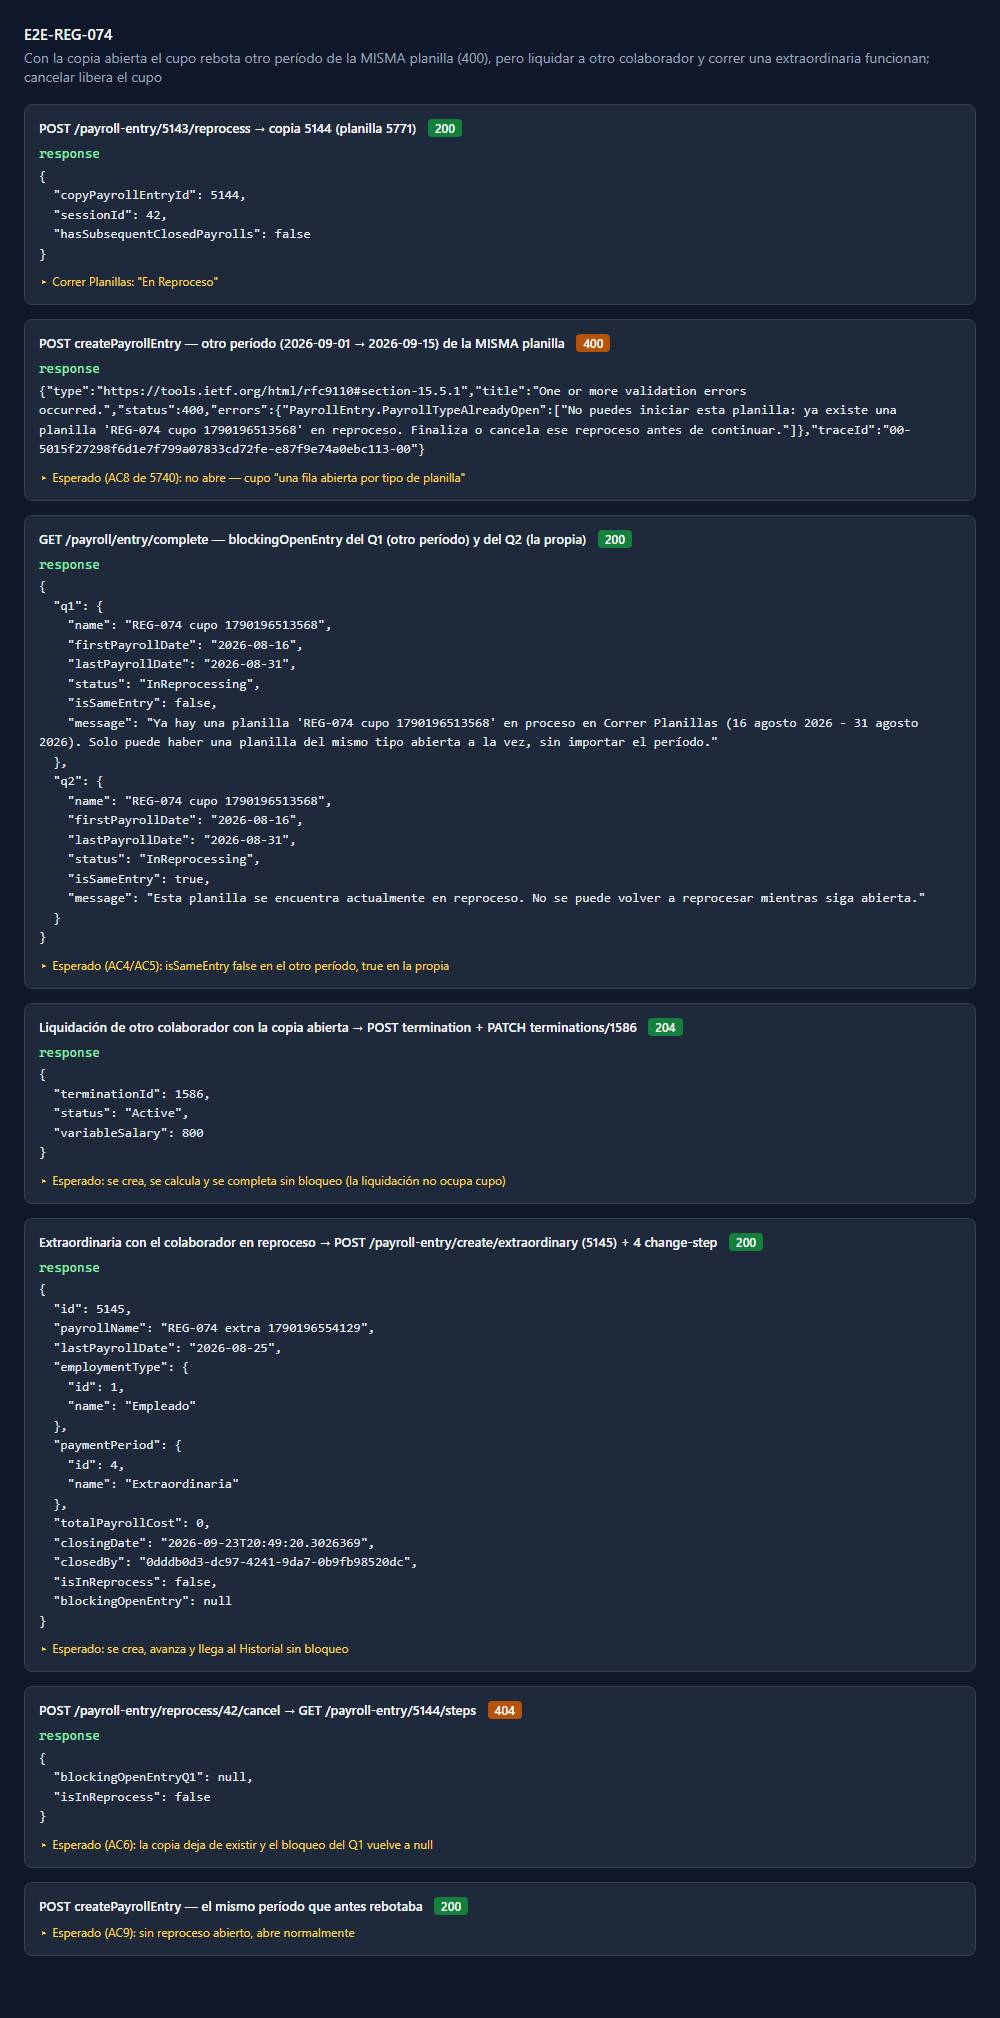
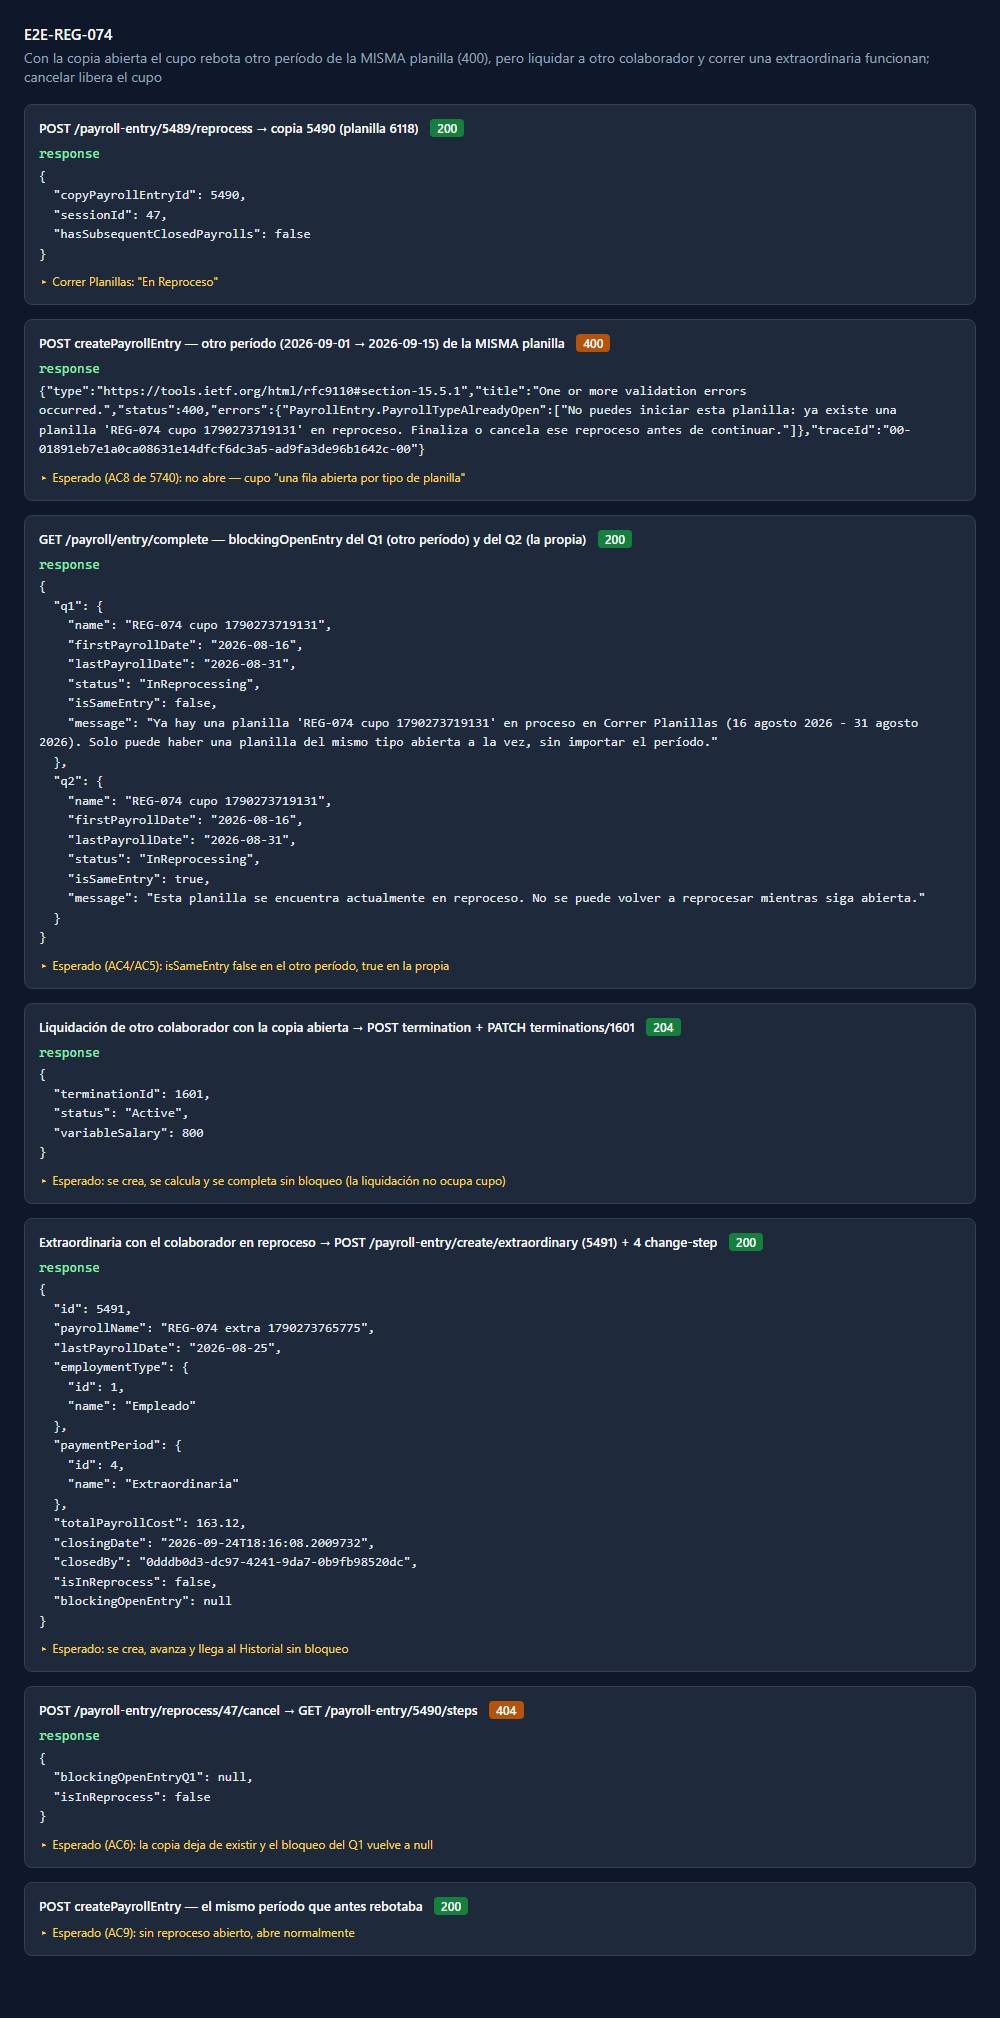
report(v17.0.0): REG-074 con el bruto real de la extraordinaria (contrato period-salary corregido) y nota del hallazgo

diff --git a/index.html b/index.html
@@ -114,10 +114,10 @@
 
 <div class="bandeja">
   <div class="summary">
-    <div class="card pass"><div class="card-value">180</div><div class="card-label">Pasaron</div></div>
+    <div class="card pass"><div class="card-value">180</div><div class="card-label">Pasaron <span style="font-size:10px;opacity:.75">(flujos E2E en UAT co.2)</span></div></div>
     <div class="card fail"><div class="card-value">12</div><div class="card-label">Fallaron</div></div>
     <div class="card total"><div class="card-value">192</div><div class="card-label">Casos en UAT <span style="font-size:10px;opacity:.75">(8 flujos E2E del reproceso + 184 de la matriz mensual REG-073)</span></div></div>
-    <div class="card time"><div class="card-value">~8 m</div><div class="card-label">Duraci&oacute;n <span style="font-size:10px;opacity:.75">(UAT)</span></div></div>
+    <div class="card time"><div class="card-value">~8 m</div><div class="card-label">Duraci&oacute;n <span style="font-size:10px;opacity:.75">(corrida completa con evidencia)</span></div></div>
   </div>
 
   <div class="content" style="padding-top:4px">
@@ -134,7 +134,7 @@
       <br><br>
       <strong>Desv&iacute;os medidos respecto del an&aacute;lisis:</strong> las corridas <code>FinalPay</code> ya no existen (REBU-5791) &rarr; REG-074 liquida desvinculando y completando;
       la provisi&oacute;n de aguinaldo sigue el art. 198 y no la tabla custom de la empresa; el estado <code>Paid</code>/<code>Deleted</code> no lo expone ninguna superficie &rarr; INT-078 lo prueba con la conducta;
-      con el toggle OFF desaparece tambi&eacute;n la pesta&ntilde;a Auditor&iacute;a (pregunta abierta a producto).
+      con el toggle OFF desaparece tambi&eacute;n la pesta&ntilde;a Auditor&iacute;a (pregunta abierta a producto); el 400 &ldquo;valor negativo&rdquo; de <code>period-salary</code> era un cambio de contrato (<code>payrollDetailId</code>) que la suite no segu&iacute;a &mdash; corregido, TC-PLA-500&hellip;503 de vuelta en verde.
     </div>
   </div>
 
@@ -220,8 +220,8 @@
 <tr><th>Setup</th><td>1. Cerrar la planilla mensual regular con <code>payroll-scenario.ts</code> + <code>changeStep</code>.<br>2. Preparar la desvinculación del segundo colaborador con <code>liquidacion-scenario.ts</code>.</td></tr>
 <tr><th>Pasos</th><td>1. Admin RRHH inicia el reproceso de la planilla mensual regular &rarr; Esperado: la copia queda <code>InReprocessing</code> y ocupa el cupo del tipo regular.<br>2. Admin RRHH intenta iniciar otra planilla <strong>regular</strong> &rarr; Esperado: no inicia, con el toast de conflicto (comportamiento nuevo, esperado).<br>3. Admin RRHH crea y corre una planilla de <strong>liquidación (FinalPay)</strong> para el colaborador desvinculado &rarr; Esperado: <strong>se crea y avanza normalmente</strong> — <code>FinalPay</code> está exenta del cupo por tipo.<br>4. Admin RRHH crea y corre una planilla <strong>extraordinaria</strong> &rarr; Esperado: se crea y avanza normalmente, sin bloqueo por el reproceso abierto.<br>5. Admin RRHH cancela el reproceso &rarr; Esperado: el cupo del tipo regular se libera y la planilla regular vuelve a ser iniciable.</td></tr>
 <tr><th>Resultado esperado</th><td>el cupo "una abierta por tipo" aísla por tipo de verdad: un reproceso de la planilla regular no congela la operación de liquidaciones ni de extraordinarias.</td></tr>
-<tr><th>Resultado obtenido</th><td>Con la copia abierta, iniciar otro período de la <strong>misma</strong> planilla rebotó <strong>400 <code>PayrollEntry.PayrollTypeAlreadyOpen</code></strong> con el texto del AC8; <code>blockingOpenEntry</code> marcó el otro período (<code>isSameEntry: false</code>) y la propia (<code>true</code>). Se desvinculó y completó la desvinculación de otro colaborador, y se creó y finalizó una extraordinaria con el colaborador en reproceso, sin bloqueo. Cancelar liberó el cupo: <code>blockingOpenEntry: null</code> y el período que rebotaba abrió. <em>Nota:</em> las corridas <code>FinalPay</code> ya no existen (REBU-5791) — liquidar es desvincular + completar. &#9989;</td></tr>
-<tr><th>Evidencia</th><td><div style="display:flex;gap:12px;flex-wrap:wrap;padding:4px 0"><div style="flex:1;min-width:220px"><div style="font-size:10px;font-weight:700;color:#284b44;letter-spacing:.5px;text-transform:uppercase;margin-bottom:6px">01 &mdash; Correr Planillas: la copia 5144 "En Reproceso" ocupa el cupo de la planilla — otro período de esta planilla no puede iniciarse; liquidaciones y extraordinarias no se ven afectadas</div><img src="assets/v17.0.0/uat/E2E-REG-074/01.jpg" style="max-width:100%;border-radius:6px;border:1px solid #d4e8d0;box-shadow:0 1px 4px rgba(0,0,0,.08)" loading="lazy" /></div><div style="flex:1;min-width:220px"><div style="font-size:10px;font-weight:700;color:#284b44;letter-spacing:.5px;text-transform:uppercase;margin-bottom:6px">02 &mdash; tras cancelar el reproceso: la planilla vuelve a "Sin Iniciar" y el cupo queda libre (blockingOpenEntry = null)</div><img src="assets/v17.0.0/uat/E2E-REG-074/02.jpg" style="max-width:100%;border-radius:6px;border:1px solid #d4e8d0;box-shadow:0 1px 4px rgba(0,0,0,.08)" loading="lazy" /></div><div style="flex:1;min-width:220px"><div style="font-size:10px;font-weight:700;color:#284b44;letter-spacing:.5px;text-transform:uppercase;margin-bottom:6px">03 &mdash; Con la copia abierta el cupo rebota otro período de la MISMA planilla (400), pero liquidar a otro colaborador y correr una extraordinaria funcionan; cancelar libera el cupo</div><img src="assets/v17.0.0/uat/E2E-REG-074/03.jpg" style="max-width:100%;border-radius:6px;border:1px solid #d4e8d0;box-shadow:0 1px 4px rgba(0,0,0,.08)" loading="lazy" /></div></div></td></tr>
+<tr><th>Resultado obtenido</th><td>Con la copia abierta, iniciar otro período de la <strong>misma</strong> planilla rebotó <strong>400 <code>PayrollEntry.PayrollTypeAlreadyOpen</code></strong> con el texto del AC8; <code>blockingOpenEntry</code> marcó el otro período (<code>isSameEntry: false</code>) y la propia (<code>true</code>). Se desvinculó y completó la desvinculación de otro colaborador, y se creó y finalizó una extraordinaria con el colaborador en reproceso, sin bloqueo. Cancelar liberó el cupo: <code>blockingOpenEntry: null</code> y el período que rebotaba abrió. <em>Notas:</em> las corridas <code>FinalPay</code> ya no existen (REBU-5791) — liquidar es desvincular + completar; el bruto manual de la extraordinaria ($150) se carga con el contrato vigente de <code>period-salary</code> (<code>payrollDetailId</code>), corregido el 24-09. &#9989;</td></tr>
+<tr><th>Evidencia</th><td><div style="display:flex;gap:12px;flex-wrap:wrap;padding:4px 0"><div style="flex:1;min-width:220px"><div style="font-size:10px;font-weight:700;color:#284b44;letter-spacing:.5px;text-transform:uppercase;margin-bottom:6px">01 &mdash; Correr Planillas: la copia 5490 "En Reproceso" ocupa el cupo de la planilla — otro período de esta planilla no puede iniciarse; liquidaciones y extraordinarias no se ven afectadas</div><img src="assets/v17.0.0/uat/E2E-REG-074/01.jpg" style="max-width:100%;border-radius:6px;border:1px solid #d4e8d0;box-shadow:0 1px 4px rgba(0,0,0,.08)" loading="lazy" /></div><div style="flex:1;min-width:220px"><div style="font-size:10px;font-weight:700;color:#284b44;letter-spacing:.5px;text-transform:uppercase;margin-bottom:6px">02 &mdash; tras cancelar el reproceso: la planilla vuelve a "Sin Iniciar" y el cupo queda libre (blockingOpenEntry = null)</div><img src="assets/v17.0.0/uat/E2E-REG-074/02.jpg" style="max-width:100%;border-radius:6px;border:1px solid #d4e8d0;box-shadow:0 1px 4px rgba(0,0,0,.08)" loading="lazy" /></div><div style="flex:1;min-width:220px"><div style="font-size:10px;font-weight:700;color:#284b44;letter-spacing:.5px;text-transform:uppercase;margin-bottom:6px">03 &mdash; Con la copia abierta el cupo rebota otro período de la MISMA planilla (400), pero liquidar a otro colaborador y correr una extraordinaria funcionan; cancelar libera el cupo</div><img src="assets/v17.0.0/uat/E2E-REG-074/03.jpg" style="max-width:100%;border-radius:6px;border:1px solid #d4e8d0;box-shadow:0 1px 4px rgba(0,0,0,.08)" loading="lazy" /></div></div></td></tr>
 <tr><th>Status</th><td><span class="badge-pass">PASS</span></td></tr>
 </table></td></tr>
 
@@ -233,7 +233,7 @@
 <tr><th>Pasos</th><td>1. Contabilidad genera el Reporte Mensual del período antes del reproceso &rarr; Esperado: totales de línea base, una fila por colaborador.<br>2. Admin RRHH inicia el reproceso de la planilla &rarr; Esperado: existen simultáneamente la original Completada y la copia <code>InReprocessing</code>.<br>3. Contabilidad genera el Reporte Mensual <strong>durante</strong> la ventana &rarr; Esperado: los totales son <strong>idénticos a la línea base</strong> — la copia no se agrega (no está cerrada) y la original no se pierde.<br>4. Admin RRHH confirma el reproceso con un cambio de monto &rarr; Esperado: la copia se fusiona y desaparece.<br>5. Contabilidad genera el Reporte Mensual después de confirmar &rarr; Esperado: los totales reflejan el monto corregido, con <strong>una sola</strong> fila por colaborador.</td></tr>
 <tr><th>Resultado esperado</th><td>el Reporte Mensual ve exactamente una planilla por período en los tres momentos, con los montos vigentes en cada uno.</td></tr>
 <tr><th>Resultado obtenido</th><td>Reporte Mensual de octubre (Empleados) generado y leído por API en los tres momentos. Línea base: el colaborador aparece una vez en &ldquo;Resumen&rdquo; y una en &ldquo;Pago a Colaboradores&rdquo; (neto $418.52). Con la copia abierta el reporte fue <strong>idéntico</strong> en todas las hojas salvo &ldquo;Inicio&rdquo;. Tras confirmar con una comisión de $50: sigue <strong>una</strong> fila por hoja, neto <strong>$455.62</strong> (el viejo ya no aparece) y la comisión suma una fila legítima en &ldquo;Detalle de Ingresos Adicional&rdquo;. &#9989;</td></tr>
-<tr><th>Evidencia</th><td><div style="display:flex;gap:12px;flex-wrap:wrap;padding:4px 0"><div style="flex:1;min-width:220px"><div style="font-size:10px;font-weight:700;color:#284b44;letter-spacing:.5px;text-transform:uppercase;margin-bottom:6px">01 &mdash; copia 5124 con la comisión de $50: bruto $500 → $550 — el Reporte Mensual generado con esta copia abierta fue idéntico a la línea base — Correr Planillas: la copia "En Reproceso" con el botón "Continuar Reproceso"</div><img src="assets/v17.0.0/uat/E2E-REG-076/01.jpg" style="max-width:100%;border-radius:6px;border:1px solid #d4e8d0;box-shadow:0 1px 4px rgba(0,0,0,.08)" loading="lazy" /></div><div style="flex:1;min-width:220px"><div style="font-size:10px;font-weight:700;color:#284b44;letter-spacing:.5px;text-transform:uppercase;margin-bottom:6px">02 &mdash; copia 5124 con la comisión de $50: bruto $500 → $550 — el Reporte Mensual generado con esta copia abierta fue idéntico a la línea base — wizard de la copia</div><img src="assets/v17.0.0/uat/E2E-REG-076/02.jpg" style="max-width:100%;border-radius:6px;border:1px solid #d4e8d0;box-shadow:0 1px 4px rgba(0,0,0,.08)" loading="lazy" /></div><div style="flex:1;min-width:220px"><div style="font-size:10px;font-weight:700;color:#284b44;letter-spacing:.5px;text-transform:uppercase;margin-bottom:6px">03 &mdash; El Reporte Mensual (10/2026, Empleados) ve una sola planilla por período en los tres momentos: idéntico con la copia abierta; tras confirmar, una fila por hoja con el neto corregido ($418.52 → $455.62)</div><img src="assets/v17.0.0/uat/E2E-REG-076/03.jpg" style="max-width:100%;border-radius:6px;border:1px solid #d4e8d0;box-shadow:0 1px 4px rgba(0,0,0,.08)" loading="lazy" /></div></div></td></tr>
+<tr><th>Evidencia</th><td><div style="display:flex;gap:12px;flex-wrap:wrap;padding:4px 0"><div style="flex:1;min-width:220px"><div style="font-size:10px;font-weight:700;color:#284b44;letter-spacing:.5px;text-transform:uppercase;margin-bottom:6px">01 &mdash; copia 5453 con la comisión de $50: bruto $500 → $550 — el Reporte Mensual generado con esta copia abierta fue idéntico a la línea base — Correr Planillas: la copia "En Reproceso" con el botón "Continuar Reproceso"</div><img src="assets/v17.0.0/uat/E2E-REG-076/01.jpg" style="max-width:100%;border-radius:6px;border:1px solid #d4e8d0;box-shadow:0 1px 4px rgba(0,0,0,.08)" loading="lazy" /></div><div style="flex:1;min-width:220px"><div style="font-size:10px;font-weight:700;color:#284b44;letter-spacing:.5px;text-transform:uppercase;margin-bottom:6px">02 &mdash; copia 5453 con la comisión de $50: bruto $500 → $550 — el Reporte Mensual generado con esta copia abierta fue idéntico a la línea base — wizard de la copia</div><img src="assets/v17.0.0/uat/E2E-REG-076/02.jpg" style="max-width:100%;border-radius:6px;border:1px solid #d4e8d0;box-shadow:0 1px 4px rgba(0,0,0,.08)" loading="lazy" /></div><div style="flex:1;min-width:220px"><div style="font-size:10px;font-weight:700;color:#284b44;letter-spacing:.5px;text-transform:uppercase;margin-bottom:6px">03 &mdash; El Reporte Mensual (10/2026, Empleados) ve una sola planilla por período en los tres momentos: idéntico con la copia abierta; tras confirmar, una fila por hoja con el neto corregido ($418.52 → $455.62)</div><img src="assets/v17.0.0/uat/E2E-REG-076/03.jpg" style="max-width:100%;border-radius:6px;border:1px solid #d4e8d0;box-shadow:0 1px 4px rgba(0,0,0,.08)" loading="lazy" /></div></div></td></tr>
 <tr><th>Status</th><td><span class="badge-pass">PASS</span></td></tr>
 </table></td></tr>
 
